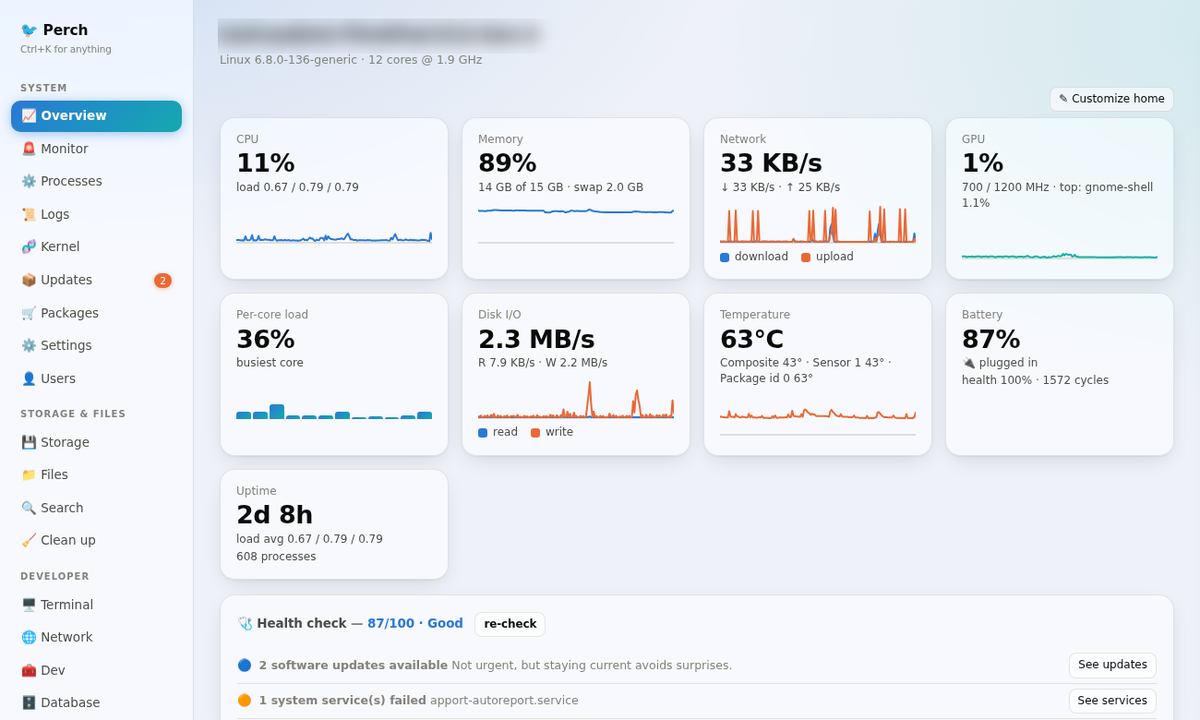
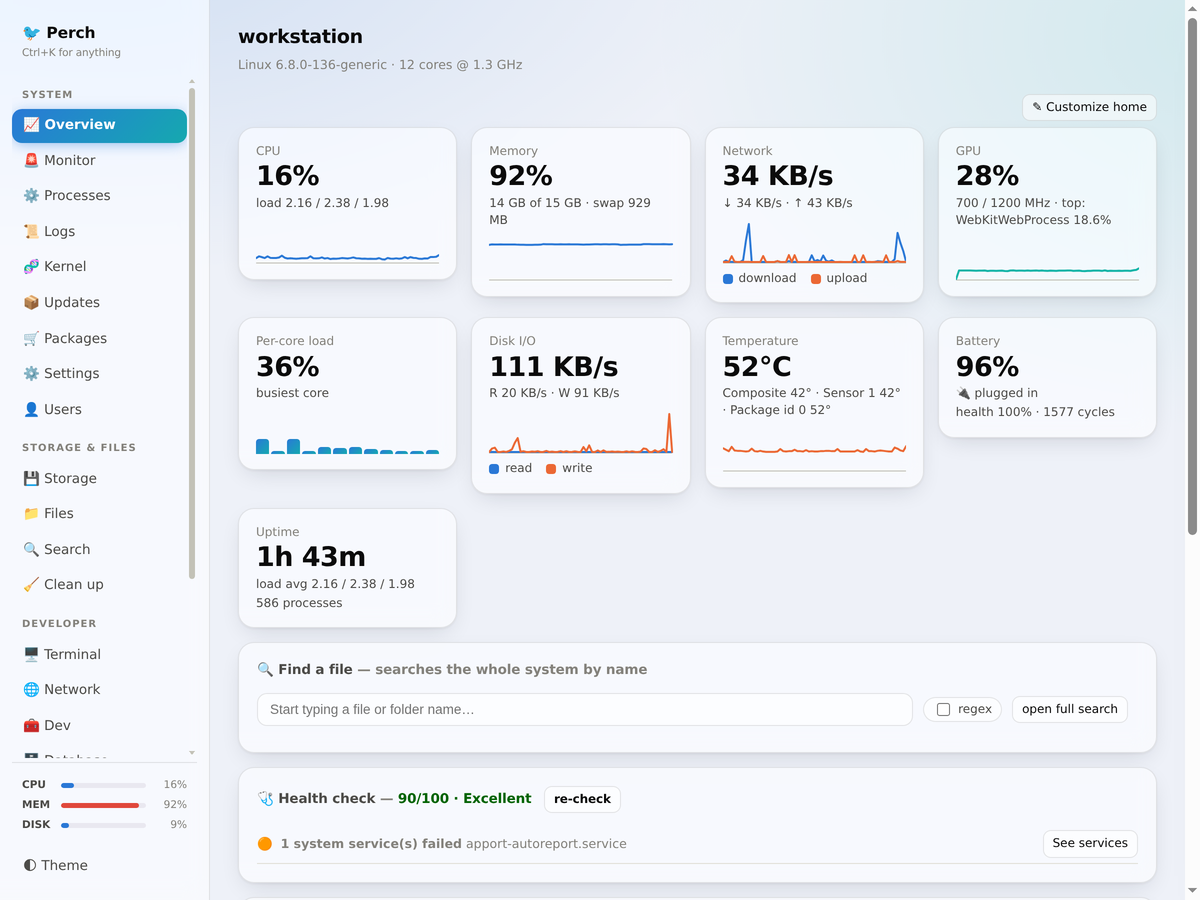
docs: refresh screenshots and README for the 1.3.0 release
Replaces the overview screenshot, which still showed the fixed pre-1.3.0 home
screen, and adds three that cover the new features: home customization (size
and remove controls on every widget), the alerting master switch, and the
listening-ports table with Stop/Force.

Captured at 2x and downscaled to the repo's existing 1200px width. As with the
previous overview screenshot, machine identifiers are redacted — the hostname
shows as 'workstation', the login name as 'you', and the LAN address as a
placeholder. Everything else is real output.

diff --git a/README.md b/README.md
@@ -11,7 +11,7 @@ A local system + developer dashboard for Linux — monitoring, ops, a full
 developer toolbox, and an AI assistant, in one token-protected web app that
 runs on `127.0.0.1`.
 
-![Perch overview — live CPU/memory/network/GPU charts, alerts and hardware panel](docs/overview.png)
+![Perch overview — live CPU/memory/network/GPU charts, a file-search box and the health scorecard](docs/overview.png)
 
 </div>
 
@@ -57,6 +57,9 @@ step, no cloud.
   clock and network interfaces. Anything you remove goes back to the gallery,
   so nothing is ever lost; the layout is saved in your browser and *reset
   layout* restores the default.
+
+  ![Customize home — every widget has a size control and a remove button, and ＋ Add widget opens the gallery](docs/home-customize.png)
+
 - **Monitor** — threshold alerts (CPU/mem/disk/temp…) with desktop
   notifications and outbound channels (ntfy, Slack, Discord, generic
   webhook), log-pattern watchers, and 24 h of one-minute history.
@@ -64,6 +67,9 @@ step, no cloud.
   15 min / 1 h / 4 h / 24 h (it resumes on its own), enable or disable every
   rule at once, and clear the alert history. While alerting is off the
   sidebar shows 🔕 and history keeps recording — only the alerts stop.
+
+  ![Monitor — the alerting master switch with snooze buttons, above the threshold rules](docs/monitor-alerts.png)
+
 - **Processes / Users / Logs / Kernel / Updates** — kill processes, inspect
   any process in a detail modal, browse the journal live, read kernel
   tunables, and see pending APT updates with a sidebar badge.
@@ -92,6 +98,9 @@ step, no cloud.
   each one, filterable by port/process/command, with **Stop** (SIGTERM) and
   **Force** (SIGKILL) on the exact PID shown; public IP and a speed test.
   Perch's own port is marked so you can't shut the dashboard on yourself.
+
+  ![Network — listening ports with Stop and Force buttons, and Perch's own port marked](docs/network-ports.png)
+
 - **Dev** — Docker containers with live stats, logs, shell, compose control
   and prune; systemd user services; toolchain overview. Perch also **detects
   any other container environment** on the machine — Podman, nerdctl, LXD/Incus

diff --git a/CHANGELOG.md b/CHANGELOG.md
@@ -55,6 +55,8 @@
   the 1440-sample 24-hour history, so home widgets stay cheap).
 - Version metadata is now consistent across `setup.cfg`, `config.py`,
   `__init__.py` and the Debian control file, which had drifted apart.
+- Refreshed the README screenshots for the new home screen, and added ones for
+  home customization, the alerting switch and the port controls.
 
 ## 1.2.3
 
